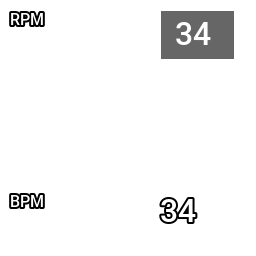
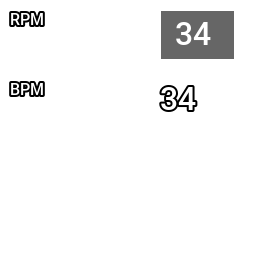
translate and frame

diff --git a/docs/xml/examples/08-translate/README.md b/docs/xml/examples/08-translate/README.md
@@ -58,7 +58,7 @@ with-hr", which could be excluded when rendering a GPX track that doesn't have a
 ```xml
 <translate name="with-hr" x="180" y="50">
     <component type="text">HR</component>
-    <component type="metric" x="-70" y="18" metric="hr" dp="0" size="32" align="right"/>
+    <component type="metric" x="-70" y="18" metric="alt" dp="0" size="32" align="right"/>
 </translate>
 ```
 <kbd>![08-translate-4.png](08-translate-4.png)</kbd>
@@ -84,10 +84,10 @@ might be less confusing, as it won't be translating anything.
         </frame>
         </translate>
     </translate>
-    <translate x="10" y="64" name="with-hr">
-        <component type="text" x="0" y="128" size="16" >BPM</component>
-        <component type="icon" x="64" y="128" file="heartbeat.png" size="64"/>
-        <component type="metric" x="150" y="128" metric="alt" dp="0" size="32"/>
+    <translate x="10" y="80" name="with-hr">
+        <component type="text" x="0" y="0" size="16" >BPM</component>
+        <component type="icon" x="64" y="0" file="heartbeat.png" size="64"/>
+        <component type="metric" x="150" y="0" metric="alt" dp="0" size="32"/>
     </translate>
 </composite>
 ```

diff --git a/build-scripts/examples/08-translate.md b/build-scripts/examples/08-translate.md
@@ -39,7 +39,7 @@ with-hr", which could be excluded when rendering a GPX track that doesn't have a
 {{
 <translate name="with-hr" x="180" y="50">
     <component type="text">HR</component>
-    <component type="metric" x="-70" y="18" metric="hr" dp="0" size="32" align="right"/>
+    <component type="metric" x="-70" y="18" metric="alt" dp="0" size="32" align="right"/>
 </translate>
 }}
 
@@ -62,10 +62,10 @@ might be less confusing, as it won't be translating anything.
         </frame>
         </translate>
     </translate>
-    <translate x="10" y="64" name="with-hr">
-        <component type="text" x="0" y="128" size="16" >BPM</component>
-        <component type="icon" x="64" y="128" file="heartbeat.png" size="64"/>
-        <component type="metric" x="150" y="128" metric="alt" dp="0" size="32"/>
+    <translate x="10" y="80" name="with-hr">
+        <component type="text" x="0" y="0" size="16" >BPM</component>
+        <component type="icon" x="64" y="0" file="heartbeat.png" size="64"/>
+        <component type="metric" x="150" y="0" metric="alt" dp="0" size="32"/>
     </translate>
 </composite>
 }}
